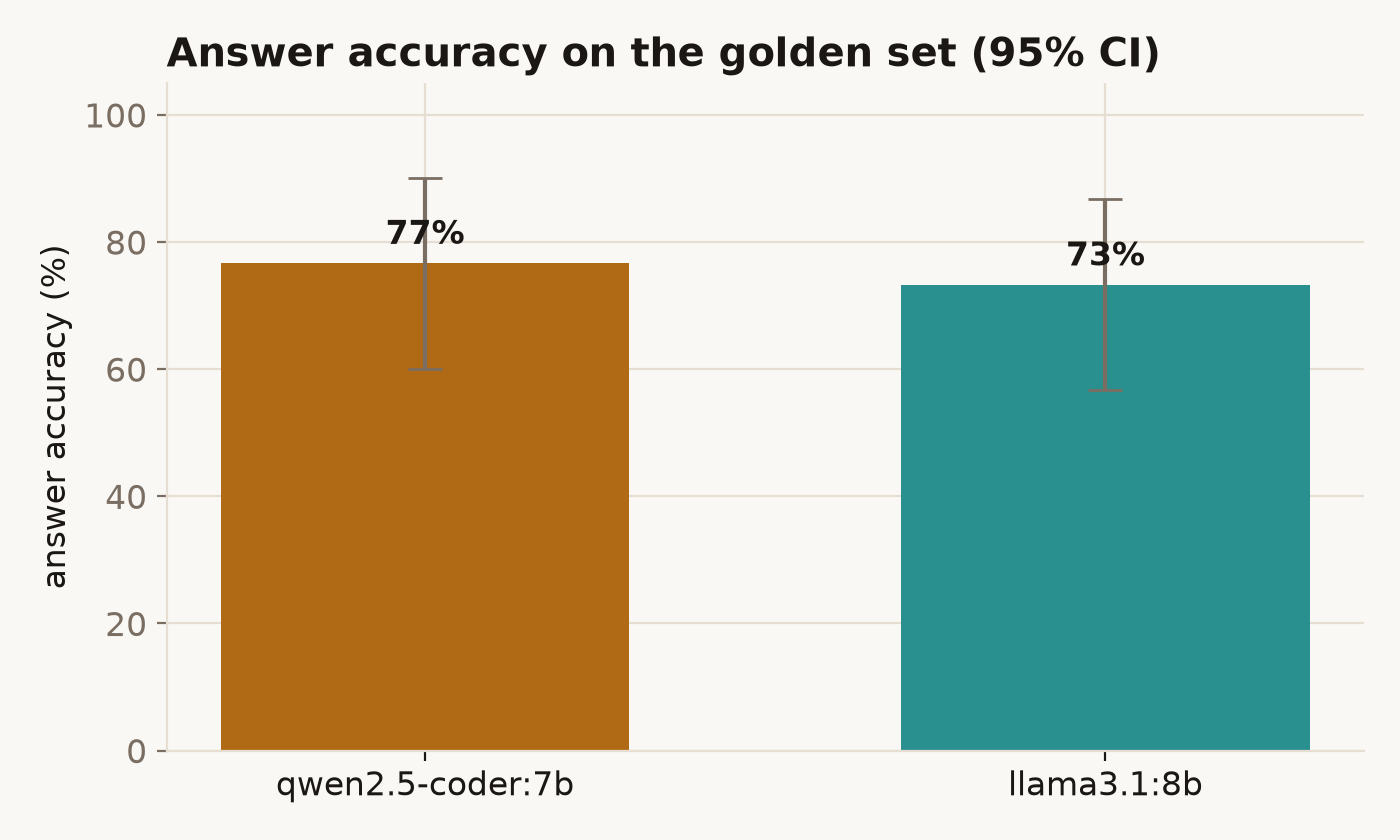
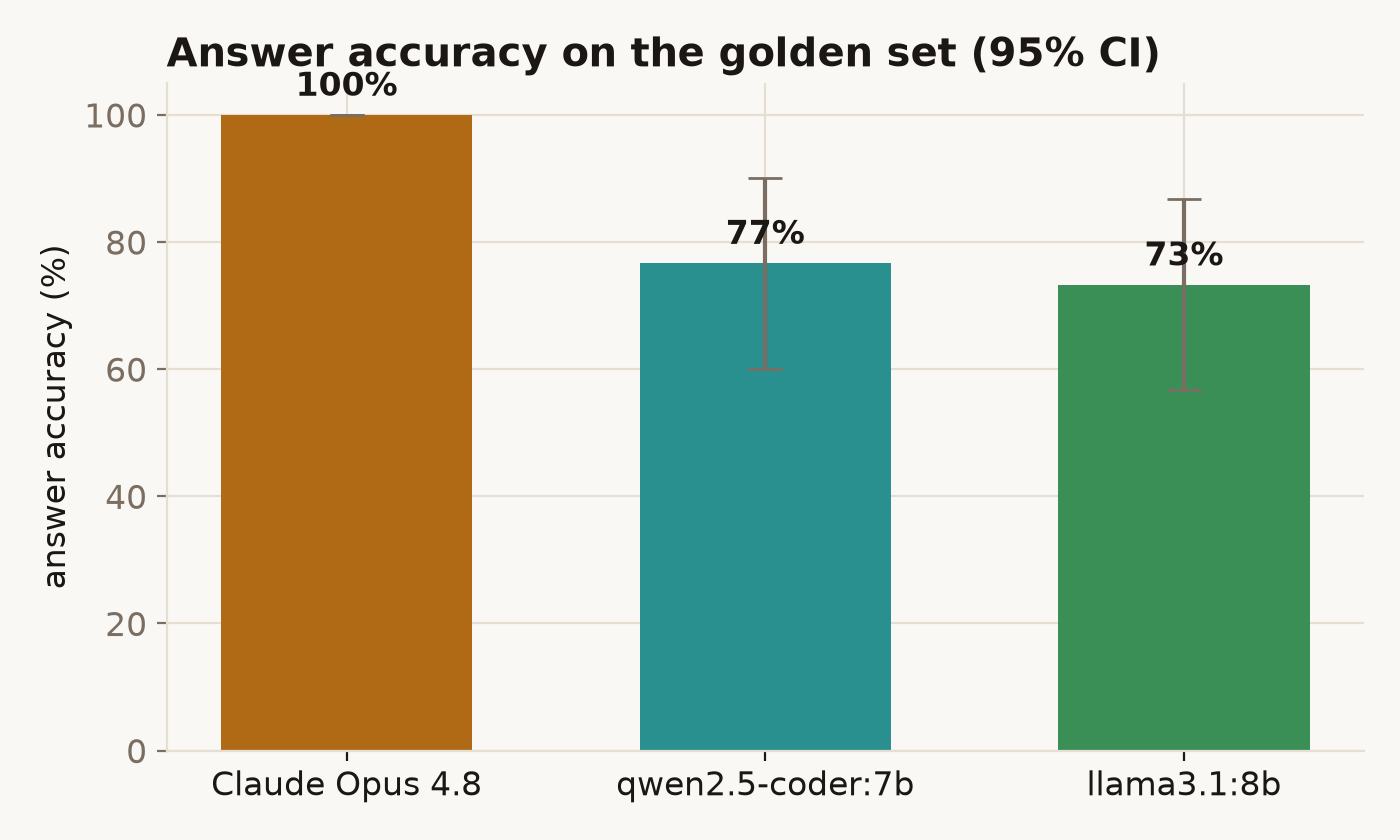
Touchline: add Claude Opus 4.8 frontier benchmark, flip to live
Ran Opus 4.8 through the identical agent harness as the local bake-off
(n=30 golden set). Result: a clean sweep -- 100% accuracy in every
category, 100% valid SQL, at 0.8c/question (24c total) and faster than
either local model (4.9s vs 8.1/5.4s) despite the network round-trip.
The frontier ceiling reframes the local choice as cost/privacy, not
accuracy -- which is the point of the zero-cost on-device demo.

Adds Opus as a third column in the scorecard + demo toggle, refreshes
all three figures + demo_runs.json, and flips wip->live (page + landing
+ archive).

diff --git a/projects/touchline.html b/projects/touchline.html
@@ -5,7 +5,7 @@
   <meta name="viewport" content="width=device-width, initial-scale=1.0" />
   <title>Touchline · William Catt</title>
   <link rel="icon" href="/favicon.svg" type="image/svg+xml" />
-  <meta name="description" content="Touchline: a tool-using agent that answers natural-language questions about 150 years of international football by writing its own SQL, running it, and charting the result. An open-model bake-off (qwen2.5-coder vs llama3.1, frontier benchmark next) scored on a golden question set, with a zero-cost in-browser demo. By William Catt." />
+  <meta name="description" content="Touchline: a tool-using agent that answers natural-language questions about 150 years of international football by writing its own SQL, running it, and charting the result. An open-model bake-off (qwen2.5-coder vs llama3.1) against a Claude Opus 4.8 frontier benchmark, scored on a golden question set, with a zero-cost in-browser demo. By William Catt." />
   <link rel="canonical" href="https://williamcatt.dev/projects/touchline.html" />
   <meta property="og:type" content="article" />
   <meta property="og:title" content="Touchline — an agentic football analyst" />
@@ -22,7 +22,7 @@
     title: "Touchline",
     subtitle: "An agent that answers football questions by writing its own SQL",
     color: "oklch(54% 0.12 160)",
-    status: "wip", // "live" | "wip" | "archived"
+    status: "live", // "live" | "wip" | "archived"
     tags: ["Agents","Tool Use","Text-to-SQL","Evals","Fine-tuning"],
     repo: "github.com/WillCatt/Touchline",
     demo: true,
@@ -51,18 +51,25 @@
       own memory.
       <a class="deeper" href="#" onclick="document.querySelector('[data-tab=technical]')?.click();return false;">How it works under the hood →</a></p>
 
-    <h2>Finding — the code model didn't win</h2>
+    <h2>Finding — the code model didn't win; the frontier model swept</h2>
     <p>The question I cared about wasn't whether an LLM can write SQL (it can), but which model you
       actually need to run this. I gave the same agent two models that run free on a laptop:
       <strong>qwen2.5-coder:7b</strong>, tuned for code, and <strong>llama3.1:8b</strong>, a general
-      model. Both answered the same 30 questions. (Claude Opus 4.8 will join the same test later, as a
-      paid-model benchmark.)</p>
+      model — then ran <strong>Claude Opus 4.8</strong> through the identical harness as a paid frontier
+      benchmark. All three answered the same 30 questions.</p>
     <figure class="fig">
-      <img src="../assets/touchline/accuracy_frontier_vs_local.png" alt="Answer accuracy: qwen2.5-coder vs llama3.1, with 95% confidence intervals." />
-      <figcaption>Answer accuracy on the 30 questions, with bootstrap 95% confidence intervals. The
-        code-tuned model is a few points ahead, but the intervals overlap, so the difference isn't real.
+      <img src="../assets/touchline/accuracy_frontier_vs_local.png" alt="Answer accuracy: Claude Opus 4.8 vs qwen2.5-coder vs llama3.1, with 95% confidence intervals." />
+      <figcaption>Answer accuracy on the 30 questions, with bootstrap 95% confidence intervals. The two
+        local models are a statistical tie; Opus 4.8 answers every question correctly.
         <a class="deeper" href="#" onclick="document.querySelector('[data-tab=results]')?.click();return false;">See the full scorecard →</a></figcaption>
     </figure>
+    <p><strong>Opus 4.8 scored 100%</strong> — every question, every category, and every query it wrote
+      was valid SQL. It did it at <strong>0.8¢ per question</strong> (24 cents for the whole run) and, to
+      my surprise, <em>faster</em> than either local model (4.9s vs 8.1s and 5.4s) despite being a network
+      round-trip. The frontier model removes accuracy from the decision entirely: the choice between local
+      and frontier here isn't "which is right" but "free, on-device, private" against "perfect, paid, and
+      networked." That's exactly why the zero-cost on-device demo below is the interesting artefact — the
+      frontier ceiling is known, the open question is how close free gets you.</p>
     <p>The code model scored <strong>77%</strong> and the general model <strong>73%</strong>: close
       enough, given the confidence intervals, to call a tie. The averages hide the more interesting part.
       The general model wrote working SQL far more often (<strong>86%</strong> of its queries ran, against
@@ -123,11 +130,11 @@
     <p>The same loop, the same tools, the same prompt — only the “brain” swaps behind one interface, so
       every model is a like-for-like comparison:</p>
     <ul>
-      <li><strong>Local (now):</strong> two models via Ollama — qwen2.5-coder:7b (code-tuned) and
+      <li><strong>Local:</strong> two models via Ollama — qwen2.5-coder:7b (code-tuned) and
         llama3.1:8b (general) — both free, on-device, no network.</li>
-      <li><strong>Frontier (next):</strong> Claude Opus 4.8 via the Anthropic API, native tool use,
+      <li><strong>Frontier:</strong> Claude Opus 4.8 via the Anthropic API, native tool use,
         adaptive thinking, with the system+tools prefix marked for prompt caching — the ceiling the
-        local models get measured against.</li>
+        local models get measured against. Cost is computed from real token usage per call.</li>
     </ul>
 
     <h2>What didn't work (kept in)</h2>
@@ -201,10 +208,10 @@
 <template id="tab-results">
   <article class="writeup">
     <div class="statrow">
-      <div class="stat"><div class="num">77%</div><div class="lbl">Best accuracy — qwen2.5-coder:7b (CI 60–90%); llama3.1:8b a near-tie at 73% (CI 57–87%)</div></div>
-      <div class="stat"><div class="num">86%</div><div class="lbl">llama's valid-SQL rate — vs qwen's 68%. The general model writes cleaner SQL</div></div>
-      <div class="stat"><div class="num">2×</div><div class="lbl">llama recovers from its own SQL errors twice as often (67% vs 33%)</div></div>
-      <div class="stat"><div class="num">$0</div><div class="lbl">both models run on-device; a frontier benchmark (Opus 4.8) lands next</div></div>
+      <div class="stat"><div class="num">100%</div><div class="lbl">Claude Opus 4.8 — every question, every category, 100% valid SQL (CI 100–100%)</div></div>
+      <div class="stat"><div class="num">77% ≈ 73%</div><div class="lbl">the local tie — qwen2.5-coder:7b vs llama3.1:8b, CIs overlap; code-tuning no clean win</div></div>
+      <div class="stat"><div class="num">0.8¢</div><div class="lbl">Opus per question (24¢ for the whole run) — and faster than local: 4.9s vs 8.1 / 5.4s</div></div>
+      <div class="stat"><div class="num">$0</div><div class="lbl">both local models run on-device, no network — the differentiator the frontier ceiling can't match</div></div>
     </div>
 
     <h2>How it's measured</h2>
@@ -213,24 +220,26 @@
       carries a bootstrap 95% CI. Full method is in the <a href="#" onclick="document.querySelector('[data-tab=technical]')?.click();return false;">Technical</a> tab.</p>
 
     <h2>Accuracy by question type</h2>
-    <p>Where the local model holds up, and where it doesn't:</p>
+    <p>The frontier sweep, and where the local models hold up or fall down:</p>
     <table class="metrics">
-      <thead><tr><th>Category</th><th>qwen2.5-coder:7b</th><th>llama3.1:8b</th></tr></thead>
+      <thead><tr><th>Category</th><th>Claude Opus 4.8</th><th>qwen2.5-coder:7b</th><th>llama3.1:8b</th></tr></thead>
       <tbody>
-        <tr><td>head_to_head</td><td>25%</td><td class="f1">100%</td></tr>
-        <tr><td>conditional</td><td class="f1">100%</td><td>50%</td></tr>
-        <tr><td>aggregation</td><td class="f1">80%</td><td>60%</td></tr>
-        <tr><td>superlative</td><td class="f1">100%</td><td>75%</td></tr>
-        <tr><td>lookup</td><td>80%</td><td>80%</td></tr>
-        <tr><td>multi_step</td><td>50%</td><td>50%</td></tr>
-        <tr><td>trend</td><td>100%</td><td>100%</td></tr>
-        <tr class="overall"><td>Overall</td><td class="f1">77%</td><td>73%</td></tr>
+        <tr><td>head_to_head</td><td class="f1">100%</td><td>25%</td><td class="f1">100%</td></tr>
+        <tr><td>conditional</td><td class="f1">100%</td><td class="f1">100%</td><td>50%</td></tr>
+        <tr><td>aggregation</td><td class="f1">100%</td><td>80%</td><td>60%</td></tr>
+        <tr><td>superlative</td><td class="f1">100%</td><td class="f1">100%</td><td>75%</td></tr>
+        <tr><td>lookup</td><td class="f1">100%</td><td>80%</td><td>80%</td></tr>
+        <tr><td>multi_step</td><td class="f1">100%</td><td>50%</td><td>50%</td></tr>
+        <tr><td>trend</td><td class="f1">100%</td><td class="f1">100%</td><td class="f1">100%</td></tr>
+        <tr class="overall"><td>Overall</td><td class="f1">100%</td><td>77%</td><td>73%</td></tr>
       </tbody>
     </table>
-    <p class="run-note">Both columns are real (full 30-question runs). The bold cell is the per-category
-      winner — and the wins split: qwen takes the single-table conditionals and superlatives, llama
-      takes head-to-head joins by a mile (100% vs 25%) and writes more valid SQL overall. The two tie on
-      lookups, multi-step and trends. A frontier benchmark (Opus 4.8) joins as a third column next.</p>
+    <p class="run-note">All three columns are real, full 30-question runs; bold marks the best (or tied-best)
+      in each row. Opus 4.8 is a clean sweep — 100% in every category. Among the local models the wins
+      split: qwen takes the single-table conditionals and superlatives, llama takes head-to-head joins by a
+      mile (100% vs 25%) and writes more valid SQL overall (86% vs 68%). The categories that need the
+      <code>team_match</code> view and a precise filter (head-to-head, multi-step) are where the local gap
+      opens up — and where the frontier model's reliability shows most.</p>
 
     <figure class="fig">
       <img src="../assets/touchline/accuracy_by_category.png" alt="Accuracy by question category, frontier vs local." />
@@ -238,16 +247,17 @@
         precise filter (head-to-head, multi-step) are where the gap opens up.</figcaption>
     </figure>
     <figure class="fig">
-      <img src="../assets/touchline/cost_latency.png" alt="Cost per question and latency per question, frontier vs local." />
-      <figcaption>The price of accuracy: the local model is free and runs on-device; the frontier model
-        costs a few cents and a round-trip per question.</figcaption>
+      <img src="../assets/touchline/cost_latency.png" alt="Cost per question and latency per question, Opus 4.8 vs local." />
+      <figcaption>The price of frontier accuracy: the local models are free and on-device; Opus costs
+        0.8¢ per question — and, despite the network round-trip, is actually <em>faster</em> than either
+        local model.</figcaption>
     </figure>
 
     <h2>Worked runs</h2>
     <p>Every recorded run — the question, the SQL each model wrote, the live result, the answer — is
       playable in the <a href="#" onclick="document.querySelector('[data-tab=app]')?.click();return false;">App</a> tab:
-      pick a question, toggle between the two models, and watch the SQL run in your browser. A set of
-      verbatim pasted traces (including a failure) lands here alongside the frontier run.</p>
+      pick a question, toggle between all three models (Opus 4.8, qwen, llama), and watch the SQL run in
+      your browser. The local models include a verbatim failure trace; Opus answers each one cleanly.</p>
   </article>
 </template>
 

diff --git a/index.html b/index.html
@@ -106,9 +106,9 @@ const PROJECTS = [
     href: "projects/touchline.html",
     subtitle: "An agent that answers football questions by writing its own SQL",
     hook: "Ask in English; it writes the SQL and runs it *live in your browser*.",
-    chips: ["code vs general: a tie", "SQL runs in-browser"],
-    chart: "assets/touchline/accuracy_by_category.png",
-    color: "oklch(54% 0.12 160)", status: "wip", priority: 3,
+    chips: ["Opus 4.8: 100%; local ~a tie", "SQL runs in-browser"],
+    chart: "assets/touchline/accuracy_frontier_vs_local.png",
+    color: "oklch(54% 0.12 160)", status: "live", priority: 3,
     tags: ["Agents", "Tool Use", "Text-to-SQL", "Evals"], year: 2026, q: "Q2" },
   { id: "policydesk", index: "09", title: "PolicyDesk",
     href: "projects/policydesk.html",

diff --git a/all-projects.html b/all-projects.html
@@ -77,8 +77,8 @@ const PROJECTS = [
     subtitle: "Guardrailed, grounded RAG over an insurance policy", color: "oklch(52% 0.14 200)",
     status: "live", year: 2026, q: "Q2", tags: ["RAG", "Guardrails", "Retrieval"] },
   { id: "touchline", index: "07", title: "Touchline",
-    subtitle: "An agent that answers football questions by writing its own SQL — open-model bake-off + zero-cost demo", color: "oklch(54% 0.12 160)",
-    status: "wip", year: 2026, q: "Q2", tags: ["Agents", "Tool Use", "Text-to-SQL", "Evals", "Fine-tuning"] },
+    subtitle: "An agent that answers football questions by writing its own SQL — open-model bake-off vs an Opus 4.8 benchmark + zero-cost demo", color: "oklch(54% 0.12 160)",
+    status: "live", year: 2026, q: "Q2", tags: ["Agents", "Tool Use", "Text-to-SQL", "Evals", "Fine-tuning"] },
   { id: "redteam", index: "08", title: "Red-Team Lab",
     subtitle: "Attacking an LLM SQL agent — what a guardrail actually stops, attack by attack", color: "oklch(53% 0.17 28)",
     status: "wip", year: 2026, q: "Q2", tags: ["Security", "Prompt Injection", "Guardrails", "Red-Team"] },